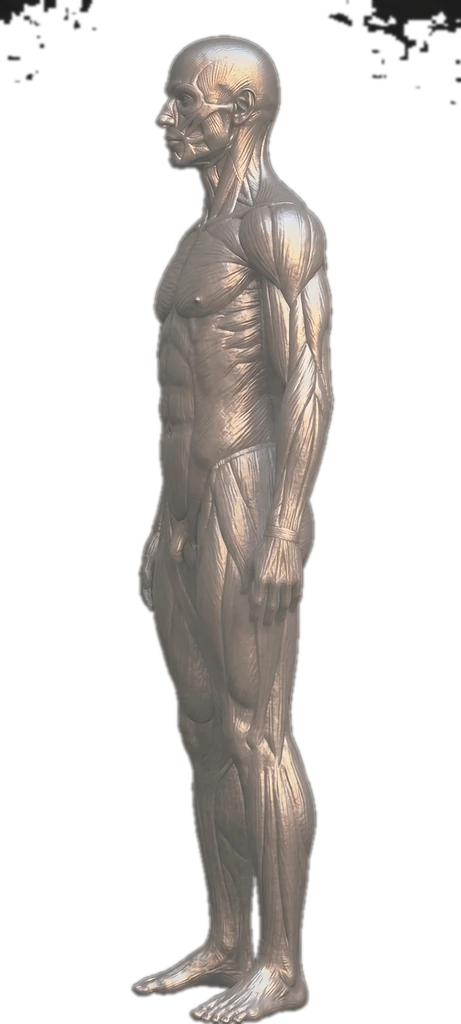
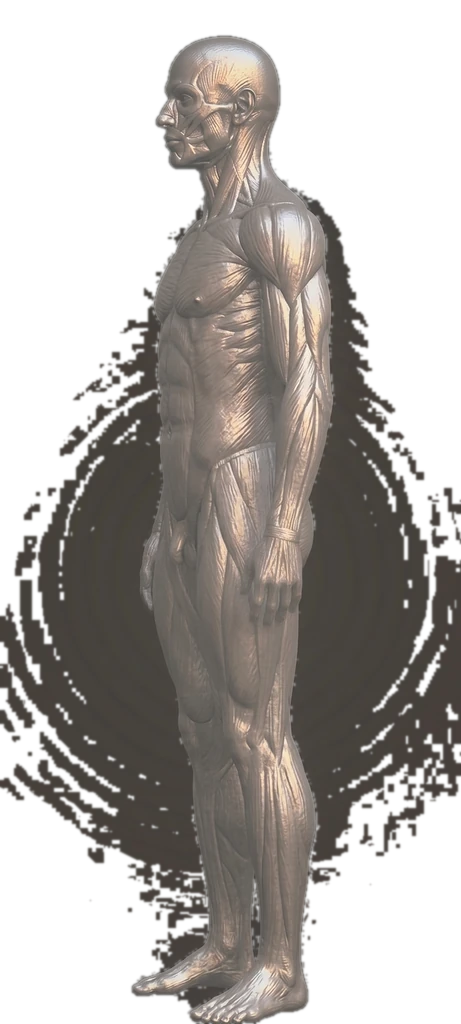
feat: gender focus reload + height in measurements + intensity buttons + no auto-spin

diff --git a/src/screens/ExercisesScreen.js b/src/screens/ExercisesScreen.js
@@ -471,16 +471,18 @@ function WorkoutsTab({ lang }) {
   };
 
   // ── Exercise detail sub-view ───────────────────────────────────────────────
-  const [editEx,    setEditEx]    = useState(null);
-  const [setsData,  setSetsData]  = useState([]); // [{weight:'',reps:''}]
-  const [editRir,   setEditRir]   = useState('1');
-  const [editSaving,setEditSaving]= useState(false);
+  const [editEx,       setEditEx]       = useState(null);
+  const [setsData,     setSetsData]     = useState([]);
+  const [editRir,      setEditRir]      = useState('1');
+  const [editIntensity,setEditIntensity]= useState(null); // null | 'failure' | 'superset' | 'finisher'
+  const [editSaving,   setEditSaving]   = useState(false);
 
   const openEdit = (ex) => {
     setEditEx(ex);
     const sd = ex.sets_data?.length ? ex.sets_data : Array.from({ length: ex.sets || 3 }, () => ({ weight: String(ex.weight || ''), reps: String(ex.reps || 10) }));
     setSetsData(sd.map(s => ({ weight: String(s.weight ?? ''), reps: String(s.reps ?? '') })));
     setEditRir(String(ex.rir ?? 1));
+    setEditIntensity(ex.intensity ?? null);
     setView('exerciseDetail');
   };
 
@@ -499,6 +501,7 @@ function WorkoutsTab({ lang }) {
         weight:    cleanSets[0]?.weight || 0,
         rir:       parseFloat(editRir) || 1,
         sets_data: cleanSets,
+        intensity: editIntensity,
       }).eq('id', editEx.id);
       await loadWorkoutExercises(active.id);
       setEditEx(null);
@@ -693,6 +696,28 @@ function WorkoutsTab({ lang }) {
                   </TouchableOpacity>
                 ))}
               </View>
+            </View>
+
+            {/* Intensity type */}
+            <View style={ed.intensityRow}>
+              {[
+                { key: 'failure',  label: 'Failure',  icon: 'flash' },
+                { key: 'superset', label: 'Superset', icon: 'repeat' },
+                { key: 'finisher', label: 'Finisher', icon: 'flag' },
+              ].map(({ key, label, icon }) => {
+                const active = editIntensity === key;
+                return (
+                  <TouchableOpacity
+                    key={key}
+                    style={[ed.intensityBtn, active && ed.intensityBtnActive]}
+                    onPress={() => setEditIntensity(active ? null : key)}
+                    activeOpacity={0.75}
+                  >
+                    <Ionicons name={`${icon}${active ? '' : '-outline'}`} size={16} color={active ? '#fff' : C.muted} />
+                    <Text style={[ed.intensityTxt, active && { color: '#fff', fontWeight: '800' }]}>{label}</Text>
+                  </TouchableOpacity>
+                );
+              })}
             </View>
 
             {/* Terim açıklamaları */}
@@ -902,6 +927,10 @@ const ed = StyleSheet.create({
   rirBtn:       { paddingHorizontal: 14, paddingVertical: 8, borderRadius: 10, borderWidth: 1.5, borderColor: C.border, backgroundColor: C.s2 },
   rirBtnActive: { backgroundColor: '#dc2626', borderColor: '#dc2626' },
   rirBtnTxt:    { color: C.muted, fontSize: 14, fontWeight: '600' },
+  intensityRow:    { flexDirection: 'row', gap: 8, marginTop: 14 },
+  intensityBtn:    { flex: 1, flexDirection: 'row', alignItems: 'center', justifyContent: 'center', gap: 5, paddingVertical: 11, borderRadius: 12, borderWidth: 1.5, borderColor: C.border, backgroundColor: C.s1 },
+  intensityBtnActive: { backgroundColor: '#dc2626', borderColor: '#dc2626' },
+  intensityTxt:    { color: C.muted, fontSize: 12, fontWeight: '600' },
   termSection:  { marginTop: 20, backgroundColor: C.s1, borderRadius: 16, padding: 16, borderWidth: 1, borderColor: C.border },
   termSectionTitle: { color: C.text, fontSize: 13, fontWeight: '800', marginBottom: 12 },
   termItem:     { marginBottom: 14, borderBottomWidth: 1, borderBottomColor: C.border, paddingBottom: 14 },

diff --git a/src/screens/ProgressScreen.js b/src/screens/ProgressScreen.js
@@ -22,6 +22,7 @@ const MEASURE_TYPES = [
   { key: 'bodyFat',    labelKey: 'mBodyFat',    unit: '%',    infoKey: 'mInfoBodyFat' },
   { key: 'ffmi',       labelKey: 'mFFMI',       unit: 'kg/m²', infoKey: 'mInfoFFMI' },
   { key: 'bodyWeight', labelKey: 'mBodyWeight', unitType: 'weight' },
+  { key: 'height',     labelKey: 'mHeight',     unitType: 'length' },
   { key: 'neck',       labelKey: 'mNeck',       unitType: 'length' },
   { key: 'shoulder',   labelKey: 'mShoulder',   unitType: 'length' },
   { key: 'chest',      labelKey: 'mChest',      unitType: 'length' },
@@ -268,13 +269,12 @@ function GeneralTab({ workoutLogs, lang, weightUnit, lengthUnit }) {
   const [gender,       setGender]       = useState('male');
   const [latestMeasure, setLatestMeasure] = useState({});
 
-  useEffect(() => {
-    // Load gender from profile
+  // Reload gender + measurements every time this tab is focused
+  useFocusEffect(useCallback(() => {
     supabase.auth.getUser().then(({ data }) => {
       if (!data?.user) return;
       supabase.from('profiles').select('gender').eq('id', data.user.id).single()
         .then(({ data: p }) => { if (p?.gender) setGender(p.gender); });
-      // Load latest measurements
       supabase.from('body_measurements').select('type, value, unit')
         .eq('user_id', data.user.id).order('measured_at', { ascending: false })
         .then(({ data: ms }) => {
@@ -283,7 +283,7 @@ function GeneralTab({ workoutLogs, lang, weightUnit, lengthUnit }) {
           setLatestMeasure(latest);
         });
     });
-  }, []);
+  }, []));
 
   const totalSessions = Object.values(workoutLogs).reduce((a, b) => a + b.length, 0);
   const totalSets     = Object.values(workoutLogs).reduce((a, b) => a + b.reduce((c, s) => c + (s.sets?.length ?? 0), 0), 0);

diff --git a/src/utils/i18n.js b/src/utils/i18n.js
@@ -96,6 +96,7 @@ export const TRANSLATIONS = {
     'noLogsYet':       'Henüz kayıt yok',
     // Measurements
     'mAddMeasurement': 'Ölçüm Ekle',
+    'mHeight':         'Boy',
     'mBodyFat':        'Vücut Yağı',
     'mFFMI':           'FFMI',
     'mBodyWeight':     'Vücut Ağırlığı',
@@ -292,6 +293,7 @@ export const TRANSLATIONS = {
     'noLogsYet':       'No records yet',
     // Measurements
     'mAddMeasurement': 'Add Measurement',
+    'mHeight':         'Height',
     'mBodyFat':        'Body Fat',
     'mFFMI':           'FFMI',
     'mBodyWeight':     'Body Weight',
